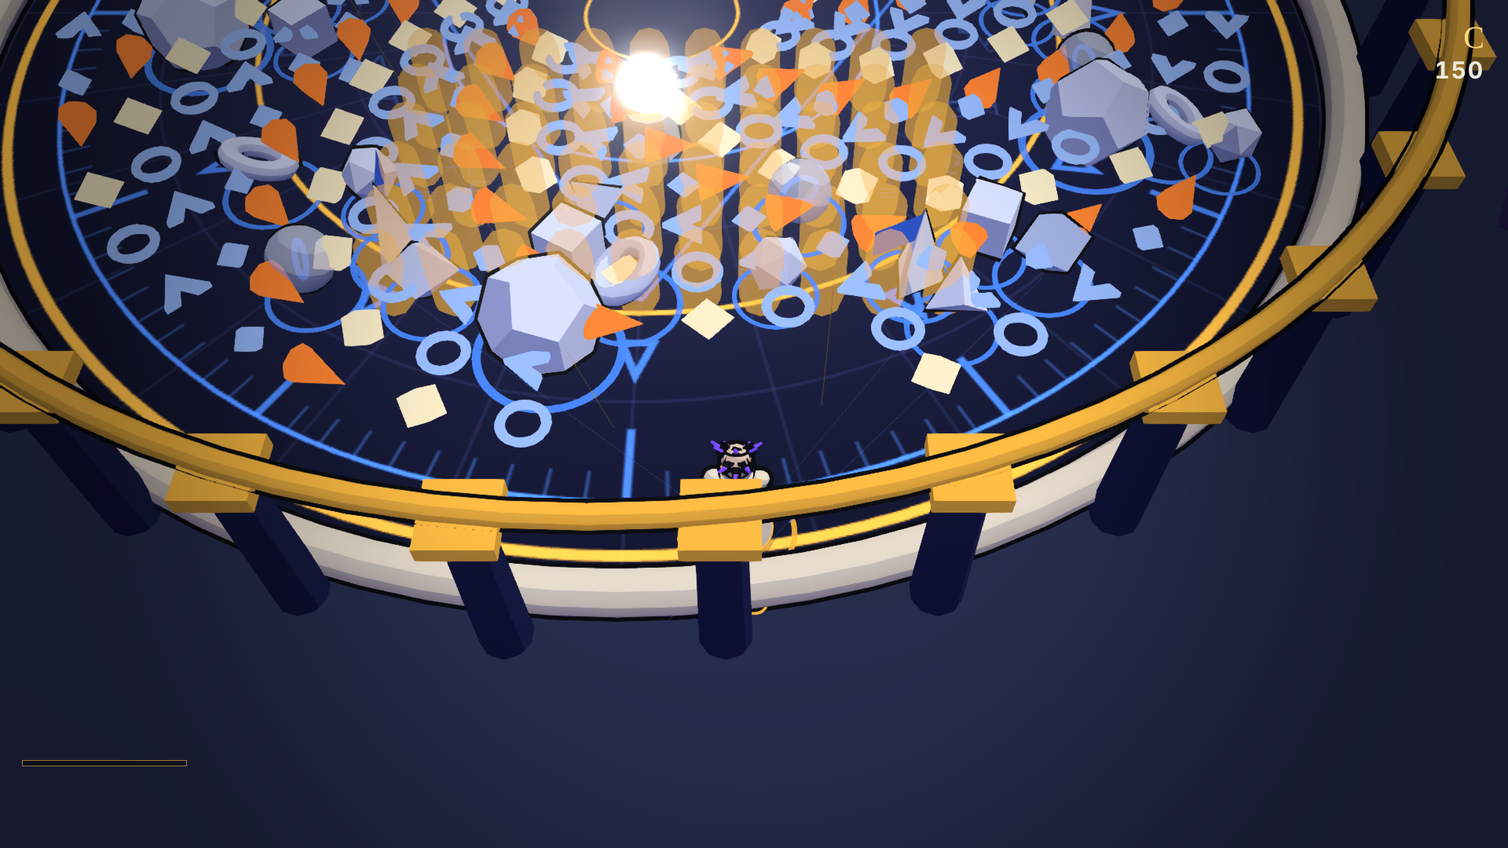
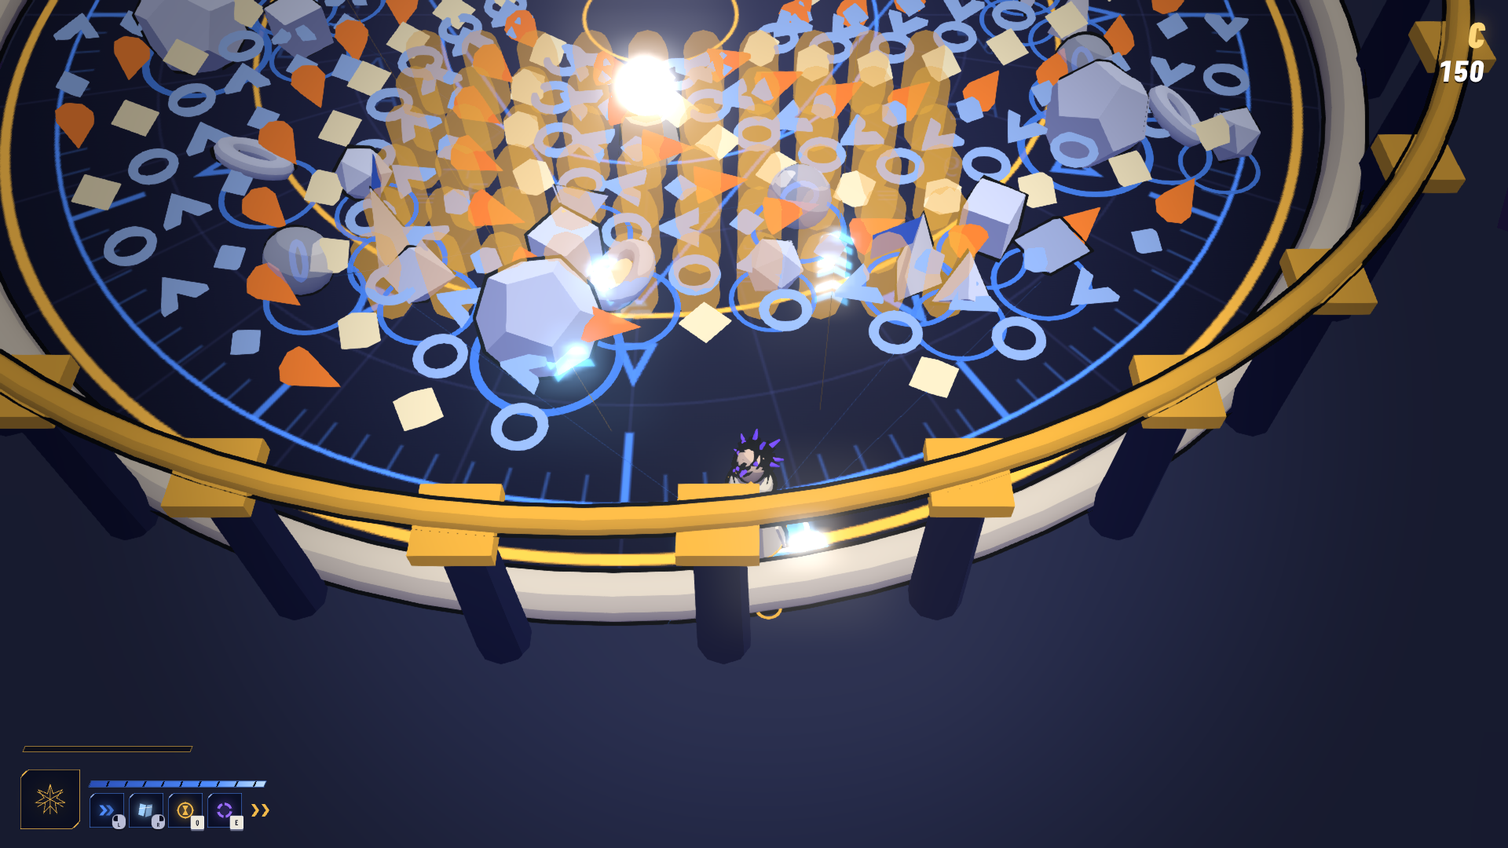
Op glyph VFX and live button prompts
World glyph decals per op, matching the HUD icons: Vector chevrons along the
redirect, Phase glass shards, Order clock/hand/hourglass (reversed hand for
rewind), Null broken violet ring collapsing. Pooled additive cards.

Button prompts from the live bindings for keyboard/mouse, Xbox, PlayStation
and Nintendo via the shell's input-family detector: binding badges on the op
slots and a Select/Back prompt bar on menus.

npm run check green; peak-density draw calls 149 (budget 250).

Claude-Session: https://claude.ai/code/session_01HCSJ6Hs4obmjjZFpmRq7rx

diff --git a/src/vfx/Vfx.ts b/src/vfx/Vfx.ts
@@ -5,6 +5,11 @@ import type { World } from "../sim/World";
 import { FEEL } from "../data/feel";
 import { PALETTE } from "../look/palette";
 import type { Afterimages } from "../look/LookKit";
+import { OpGlyphs } from "./OpGlyphs";
+
+/** Op accents from the reference sheet; each op also has its own glyph silhouette (OpGlyphs). */
+const OP_FX = { vector: 0x6ec8ff, phase: 0x9fd0ff, order: PALETTE.gold, null: PALETTE.purple } as const;
+const yawOf = (dx: number, dz: number) => Math.atan2(-dz, dx);
 
 /**
  * The 15 VFX families (GDD §11). Bursts, rings and convergences play through the shell Look Kit's pooled
@@ -31,7 +36,9 @@ export class Vfx {
   readonly counts: Record<string, number> = {};
   private readonly col = new THREE.Color();
 
-  constructor(scene: THREE.Scene, private readonly after: Afterimages, private readonly look: ShellLook) {
+  readonly glyphs: OpGlyphs;
+  constructor(scene: THREE.Scene, private readonly after: Afterimages, private readonly look: ShellLook, private readonly camera: THREE.Camera) {
+    this.glyphs = new OpGlyphs(scene);
     this.lineGeo.setAttribute("position", new THREE.BufferAttribute(this.linePos, 3));
     this.lineGeo.setAttribute("color", new THREE.BufferAttribute(this.lineCol, 3));
     this.lineMesh = new THREE.LineSegments(this.lineGeo, new THREE.LineBasicMaterial({ vertexColors: true, transparent: true, opacity: 0.95 }));
@@ -65,29 +72,59 @@ export class Vfx {
     for (let i = 0; i < seg; i++) { const a0 = (i / seg) * Math.PI * 2, a1 = ((i + 1) / seg) * Math.PI * 2; this.line(x + Math.sin(a0) * r, y, z + Math.cos(a0) * r, x + Math.sin(a1) * r, y, z + Math.cos(a1) * r, color, life); }
   }
 
+  /** A quick op sigil under Markov when an op fires (cast confirmation by silhouette). */
+  private castGlyph(op: keyof typeof OP_FX, x: number, z: number, dx: number, dz: number): void {
+    const color = OP_FX[op]; if (color === undefined) return;
+    const kind = op === "vector" ? "chevron" : op === "phase" ? "shard" : op === "order" ? "clock" : "nullring";
+    this.glyphs.spawn({ kind, x, z, y: 0.1, color, life: 16, size: 1.2, endSize: 2.2, yaw: op === "vector" ? yawOf(dx, dz) : 0, intensity: 1.2 });
+  }
+
   /** Map one sim event to its VFX family (data/feel.ts). */
   onEvent(e: SimEvent, w: World): void {
     const fam = FEEL[e.type]?.vfx as VfxFamily | undefined;
     const x = e.x ?? w.markov.pos.x, z = e.z ?? w.markov.pos.z;
     if (fam) this.counts[fam] = (this.counts[fam] ?? 0) + 1;
     switch (fam) {
-      case "glyph-spark": this.burst(x, 1.2, z, e.type === "StrikeHit" ? PALETTE.gold : PALETTE.goldHot, e.type === "CompoundCast" ? 0.8 : 0.3); if (e.type === "CompoundCast") this.ring(x, z, PALETTE.gold, 2.4); break;
+      case "glyph-spark":
+        if (e.type === "OpCast") this.castGlyph(e.op as keyof typeof OP_FX, x, z, e.dx ?? 0, e.dz ?? 1);
+        this.burst(x, 1.2, z, e.type === "StrikeHit" ? PALETTE.gold : PALETTE.goldHot, e.type === "CompoundCast" ? 0.8 : 0.3); if (e.type === "CompoundCast") this.ring(x, z, PALETTE.gold, 2.4); break;
       case "vector-line": {
         const dx = e.dx ?? 0, dz = e.dz ?? 1, l = Math.hypot(dx, dz) || 1;
         this.line(x, 0.9, z, x + (dx / l) * 14, 0.9, z + (dz / l) * 14, PALETTE.gold, 12);
+        if (e.type === "Redirect") { // three chevrons launched down the new heading
+          const ux = dx / l, uz = dz / l, yaw = yawOf(ux, uz);
+          for (let i = 0; i < 3; i++) this.glyphs.spawn({ kind: "chevron", x: x + ux * i * 0.9, z: z + uz * i * 0.9, y: 0.9, color: OP_FX.vector, life: 16 + i * 3, size: 1.1 - i * 0.15, endSize: 0.7, yaw, vx: ux * (0.32 - i * 0.05), vz: uz * (0.32 - i * 0.05), fadeIn: 1 + i * 2 });
+        }
         break;
       }
       case "orbit-ring": this.orbitT = 180; break;
-      case "phase-ripple": this.ring(x, z, e.value === 2 || e.value === 3 ? PALETTE.blue : 0xffffff, 2.2, 0.9); break;
-      case "clock-stamp": this.circle(x, z, 0.8, PALETTE.gold, 30, 1, 12); for (let i = 0; i < 12; i++) { const a = (i / 12) * Math.PI * 2; this.line(x + Math.sin(a) * 0.7, 1, z + Math.cos(a) * 0.7, x + Math.sin(a) * 0.95, 1, z + Math.cos(a) * 0.95, PALETTE.gold, 30); } break;
+      case "phase-ripple": {
+        this.ring(x, z, e.value === 2 || e.value === 3 ? PALETTE.blue : 0xffffff, 2.2, 0.9);
+        for (let i = 0; i < 7; i++) { // glass shards breaking outward
+          const a = (i / 7) * Math.PI * 2 + this.r(-0.3, 0.3), sp = this.r(0.12, 0.2);
+          this.glyphs.spawn({ kind: "shard", x, z, y: this.r(0.7, 1.8), color: OP_FX.phase, life: Math.round(this.r(18, 26)), size: this.r(0.5, 0.8), endSize: 0.3, flat: false, vx: Math.cos(a) * sp, vz: Math.sin(a) * sp, spin: this.r(-0.15, 0.15), intensity: 1.3 });
+        }
+        break;
+      }
+      case "clock-stamp":
+        this.glyphs.spawn({ kind: "clock", x, z, color: OP_FX.order, life: 60, size: 3.2, endSize: 2.2, fadeIn: 2 });
+        this.glyphs.spawn({ kind: "hand", x, z, y: 0.14, color: OP_FX.order, life: 60, size: 2.4, endSize: 1.7, spin: 0.03, fadeIn: 2 });
+        this.glyphs.spawn({ kind: "hourglass", x, z, y: 2.6, color: OP_FX.order, life: 60, size: 0.9, flat: false, intensity: 1.4 });
+        this.circle(x, z, 0.8, PALETTE.gold, 30, 1, 12); for (let i = 0; i < 12; i++) { const a = (i / 12) * Math.PI * 2; this.line(x + Math.sin(a) * 0.7, 1, z + Math.cos(a) * 0.7, x + Math.sin(a) * 0.95, 1, z + Math.cos(a) * 0.95, PALETTE.gold, 30); } break;
       case "rewind-trail": {
         const a = e.id ? w.actor(e.id) : undefined;
         const p = e.id ? w.projectile(e.id) : undefined;
         const h = a?.history ?? p?.history;
+        this.glyphs.spawn({ kind: "clock", x, z, color: OP_FX.order, life: 40, size: 2.4, endSize: 3, fadeIn: 2 });
+        this.glyphs.spawn({ kind: "hand", x, z, y: 0.14, color: OP_FX.order, life: 40, size: 1.9, endSize: 2.4, spin: -0.35, fadeIn: 2 });
         if (h) for (let i = 0; i + 6 < h.count; i += 6) { const p0 = h.get(i), p1 = h.get(i + 6); this.line(p0.x, 0.9, p0.z, p1.x, 0.9, p1.z, PALETTE.gold, 40); if (i % 18 === 0) this.after.spawn(new THREE.Vector3(p0.x, 0.9, p0.z), 0, PALETTE.gold, PALETTE.blue, 24, 0.7); }
         break;
       }
-      case "null-implode": this.converge(x, 0.9, z, PALETTE.gold, 0.4, 100); break;
+      case "null-implode": // broken violet ring collapsing onto the erased point
+        this.converge(x, 0.9, z, OP_FX.null, 0.4, 100);
+        this.glyphs.spawn({ kind: "nullring", x, z, y: 0.9, color: OP_FX.null, life: 22, size: 3.4, endSize: 0.2, spin: 0.18, flat: false, fadeIn: 1 });
+        this.glyphs.spawn({ kind: "nullring", x, z, color: OP_FX.null, life: 30, size: 0.6, endSize: 3.6, spin: -0.06, intensity: 1 });
+        break;
       case "property-peel": this.burst(x, 1.6, z, PALETTE.gold, 0.6); break;
       case "contradiction-fracture": {
         for (let i = 0; i < 10; i++) {
@@ -138,9 +175,10 @@ export class Vfx {
     (rays.material as THREE.MeshBasicMaterial).opacity = this.dawnLevel * 0.16;
     rays.visible = this.dawnLevel > 0.01;
     this.lineMesh.visible = li > 0;
+    this.glyphs.update(this.camera);
   }
 
-  clear(): void { this.lines.length = 0; this.dawnLevel = 0; this.orbitT = 0; }
+  clear(): void { this.glyphs.clear(); this.lines.length = 0; this.dawnLevel = 0; this.orbitT = 0; }
 }
 
 function mergeGeos(gs: THREE.BufferGeometry[]): THREE.BufferGeometry {

diff --git a/src/ui/glyphs.ts b/src/ui/glyphs.ts
@@ -1,0 +1,81 @@
+import type { InputDeviceFamily } from "@slu/web-shell";
+import type { Binding } from "../data/input";
+
+/**
+ * Button prompt glyphs (inline HTML/CSS, no image assets) for the active input family, resolved from the live bindings so
+ * remaps show correctly. Face buttons read by symbol/letter + shape, shoulders and triggers by shape, keys as keycaps.
+ * Standard Gamepad indices: 0 bottom, 1 right, 2 left, 3 top, 4 LB, 5 RB, 6 LT, 7 RT, 8 select, 9 start, 10 L3, 11 R3, 12-15 d-pad.
+ */
+export type PadFamily = Exclude<InputDeviceFamily, "keyboard-mouse" | "touch">;
+
+const FACE: Record<PadFamily, string[]> = {
+  xbox: ["A", "B", "X", "Y"],
+  "generic-gamepad": ["A", "B", "X", "Y"],
+  playstation: ["✕", "○", "□", "△"],
+  nintendo: ["B", "A", "Y", "X"],
+};
+const SHOULDER: Record<PadFamily, string[]> = {
+  xbox: ["LB", "RB", "LT", "RT"], "generic-gamepad": ["LB", "RB", "LT", "RT"], playstation: ["L1", "R1", "L2", "R2"], nintendo: ["L", "R", "ZL", "ZR"],
+};
+const META: Record<PadFamily, string[]> = {
+  xbox: ["⧉", "≡"], "generic-gamepad": ["◁", "▷"], playstation: ["◫", "≡"], nintendo: ["−", "+"],
+};
+const KEY_NAMES: Record<string, string> = { Space: "Space", ShiftLeft: "Shift", ShiftRight: "Shift", Escape: "Esc", Enter: "Enter", Tab: "Tab", Backspace: "⌫", ArrowUp: "↑", ArrowDown: "↓", ArrowLeft: "←", ArrowRight: "→" };
+const MOUSE = ["L", "M", "R"];
+
+export function isPad(f: InputDeviceFamily): f is PadFamily { return f !== "keyboard-mouse" && f !== "touch"; }
+
+export function padGlyph(index: number, f: PadFamily): string {
+  if (index <= 3) return `<b class="gl gl-face gl-${f === "playstation" ? "ps" : "abxy"}" data-face="${index}">${FACE[f][index]}</b>`;
+  if (index <= 7) return `<b class="gl ${index <= 5 ? "gl-bumper" : "gl-trigger"}">${SHOULDER[f][index - 4]}</b>`;
+  if (index <= 9) return `<b class="gl gl-face gl-meta">${META[f][index - 8]}</b>`;
+  if (index <= 11) return `<b class="gl gl-face gl-stick">${index === 10 ? "L" : "R"}<i>●</i></b>`;
+  return `<b class="gl gl-dpad" data-dir="${index - 12}"><i></i></b>`;
+}
+
+export function keyGlyph(code: string): string {
+  const name = KEY_NAMES[code] ?? code.replace(/^Key|^Digit/, "");
+  return `<b class="gl gl-key${name.length > 2 ? " wide" : ""}">${name}</b>`;
+}
+export function mouseGlyph(button: number): string { return `<b class="gl gl-mouse" data-b="${button}"><i></i>${MOUSE[button] ?? button}</b>`; }
+
+/** Glyph for a game action in the given family; null if that family has no binding for it. */
+export function actionGlyph(b: Binding | undefined, f: InputDeviceFamily): string | null {
+  if (!b) return null;
+  if (isPad(f)) { const p = b.gamepadButtons?.[0]; return p === undefined ? null : padGlyph(p, f); }
+  if (b.mouseButtons?.length) return mouseGlyph(b.mouseButtons[0]!);
+  if (b.keyboard.length) return keyGlyph(b.keyboard[0]!);
+  return null;
+}
+
+/** Fixed UI navigation prompts (not remappable). */
+export function uiGlyph(act: "accept" | "back", f: InputDeviceFamily): string {
+  if (isPad(f)) return padGlyph(act === "accept" ? 0 : 1, f);
+  return keyGlyph(act === "accept" ? "Enter" : "Escape");
+}
+
+export const GLYPH_CSS = `
+.gl{display:inline-flex;align-items:center;justify-content:center;flex:none;font-family:var(--display);font-style:normal;font-weight:800;line-height:1;color:#0a0d1f;background:#ece8dc;letter-spacing:0;font-size:13px;height:22px;min-width:22px;box-shadow:0 2px 0 rgba(0,0,0,.45)}
+.gl-face{border-radius:50%;width:22px}
+.gl-ps{font-size:15px;font-family:system-ui,sans-serif;font-weight:700}
+.gl-meta{font-size:14px;background:#b9bdd6}
+.gl-stick{font-size:11px;flex-direction:column;gap:0;background:#b9bdd6}.gl-stick i{font-size:6px;font-style:normal}
+.gl-bumper{border-radius:9px 9px 4px 4px;padding:0 6px;font-size:12px}
+.gl-trigger{border-radius:11px 11px 3px 3px;padding:0 6px;height:24px;font-size:12px;background:linear-gradient(#fff,#cfcabd)}
+.gl-key{border-radius:3px;padding:0 6px;font-size:12px;border:1px solid #fff;box-shadow:0 3px 0 #6b6f8a}
+.gl-key.wide{padding:0 8px;letter-spacing:.04em}
+.gl-mouse{width:18px;height:24px;border-radius:9px;font-size:9px;position:relative;align-items:flex-end;padding-bottom:3px;background:#b9bdd6}
+.gl-mouse i{position:absolute;top:2px;width:7px;height:9px;background:#0a0d1f;border-radius:3px}
+.gl-mouse[data-b="0"] i{left:2px;border-radius:7px 1px 1px 3px}.gl-mouse[data-b="2"] i{right:2px;border-radius:1px 7px 3px 1px}.gl-mouse[data-b="1"] i{left:5.5px;width:6px;border-radius:3px}
+.gl-dpad{width:22px;height:22px;background:none;box-shadow:none;position:relative}
+.gl-dpad:before,.gl-dpad:after{content:"";position:absolute;background:#6b6f8a;border-radius:2px}
+.gl-dpad:before{left:7px;top:0;width:8px;height:22px}.gl-dpad:after{top:7px;left:0;width:22px;height:8px}
+.gl-dpad i{position:absolute;z-index:1;width:8px;height:8px;background:#ece8dc;border-radius:1px}
+.gl-dpad[data-dir="0"] i{left:7px;top:0}.gl-dpad[data-dir="1"] i{left:7px;bottom:0}.gl-dpad[data-dir="2"] i{left:0;top:7px}.gl-dpad[data-dir="3"] i{right:0;top:7px}
+/* prompt bar (bottom-right, navigation only) */
+.prompts{position:absolute;right:0;bottom:22px;display:flex;gap:22px;align-items:center;padding:8px 34px 8px 40px;background:linear-gradient(90deg,transparent,rgba(5,6,16,.85) 22%);clip-path:polygon(18px 0,100% 0,100% 100%,0 100%);font-family:var(--display);font-style:italic;font-weight:700;letter-spacing:.12em;text-transform:uppercase;font-size:calc(16px*var(--ts));color:#dfe3f5;pointer-events:none}
+.prompts span{display:inline-flex;align-items:center;gap:9px}
+/* op slot binding badge */
+.op{position:relative}
+.op .gl{position:absolute;right:-12px;bottom:-12px;transform:scale(.78);transform-origin:100% 100%}
+`;

diff --git a/src/vfx/OpGlyphs.ts b/src/vfx/OpGlyphs.ts
@@ -1,0 +1,83 @@
+import * as THREE from "three";
+
+/**
+ * Operation glyph decals (presentation only): flat additive cards drawn from the same silhouettes as the HUD op icons,
+ * so every op reads by shape in the world as well as in the HUD — Vector chevrons, Phase glass shards, Order clock,
+ * Null broken ring. Pooled meshes; only live glyphs draw.
+ */
+export type GlyphKind = "chevron" | "shard" | "clock" | "hand" | "nullring" | "hourglass";
+
+const TEX = new Map<GlyphKind, THREE.CanvasTexture>();
+function texture(kind: GlyphKind): THREE.CanvasTexture {
+  let t = TEX.get(kind);
+  if (t) return t;
+  const S = 256, c = document.createElement("canvas"); c.width = c.height = S;
+  const g = c.getContext("2d")!; g.translate(S / 2, S / 2);
+  g.fillStyle = "#fff"; g.strokeStyle = "#fff"; g.lineJoin = "miter";
+  const glow = (b: number) => { g.shadowColor = "#fff"; g.shadowBlur = b; };
+  switch (kind) {
+    case "chevron": glow(18); for (const off of [-46, 34]) { g.beginPath(); g.moveTo(off - 40, -90); g.lineTo(off + 6, -90); g.lineTo(off + 56, 0); g.lineTo(off + 6, 90); g.lineTo(off - 40, 90); g.lineTo(off + 10, 0); g.closePath(); g.globalAlpha = off < 0 ? 0.55 : 1; g.fill(); } break;
+    case "shard": glow(14); g.globalAlpha = 0.5; g.beginPath(); g.moveTo(-40, -110); g.lineTo(60, -70); g.lineTo(30, 110); g.lineTo(-60, 70); g.closePath(); g.fill(); g.globalAlpha = 1; g.lineWidth = 7; g.stroke(); g.beginPath(); g.moveTo(-30, -60); g.lineTo(40, -40); g.lineWidth = 5; g.stroke(); break;
+    case "clock": glow(16); g.lineWidth = 9; g.beginPath(); g.arc(0, 0, 104, 0, Math.PI * 2); g.stroke(); g.lineWidth = 3; g.beginPath(); g.arc(0, 0, 86, 0, Math.PI * 2); g.stroke();
+      for (let i = 0; i < 12; i++) { const a = (i / 12) * Math.PI * 2; const long = i % 3 === 0; g.lineWidth = long ? 8 : 4; g.beginPath(); g.moveTo(Math.sin(a) * (long ? 62 : 72), -Math.cos(a) * (long ? 62 : 72)); g.lineTo(Math.sin(a) * 84, -Math.cos(a) * 84); g.stroke(); } break;
+    case "hand": glow(12); g.beginPath(); g.moveTo(-7, 10); g.lineTo(0, -82); g.lineTo(7, 10); g.closePath(); g.fill(); g.beginPath(); g.arc(0, 0, 12, 0, Math.PI * 2); g.fill(); break;
+    case "hourglass": glow(14); g.lineWidth = 8; g.beginPath(); g.moveTo(-56, -90); g.lineTo(56, -90); g.lineTo(8, 0); g.lineTo(56, 90); g.lineTo(-56, 90); g.lineTo(-8, 0); g.closePath(); g.stroke(); g.beginPath(); g.moveTo(-30, 62); g.lineTo(30, 62); g.lineTo(0, 30); g.closePath(); g.fill(); break;
+    case "nullring": glow(20); g.lineWidth = 22; for (let i = 0; i < 4; i++) { const a = (i / 4) * Math.PI * 2 + 0.2; g.beginPath(); g.arc(0, 0, 92, a, a + 1.15); g.stroke(); } g.lineWidth = 4; g.beginPath(); g.arc(0, 0, 60, 0, Math.PI * 2); g.globalAlpha = 0.5; g.stroke(); break;
+  }
+  t = new THREE.CanvasTexture(c); t.colorSpace = THREE.SRGBColorSpace; TEX.set(kind, t);
+  return t;
+}
+
+interface Glyph {
+  mesh: THREE.Mesh; mat: THREE.MeshBasicMaterial; life: number; t: number;
+  x: number; y: number; z: number; vx: number; vz: number; s0: number; s1: number; rot: number; spin: number; flat: boolean; yaw: number; fadeIn: number;
+}
+export interface GlyphSpec {
+  kind: GlyphKind; x: number; z: number; y?: number; color: number; life: number;
+  size?: number; endSize?: number; yaw?: number; spin?: number; vx?: number; vz?: number; flat?: boolean; intensity?: number; fadeIn?: number;
+}
+
+const POOL = 64;
+export class OpGlyphs {
+  private readonly pool: Glyph[] = [];
+  private readonly live: Glyph[] = [];
+  private readonly geo = new THREE.PlaneGeometry(1, 1);
+  readonly group = new THREE.Group();
+  constructor(scene: THREE.Scene) {
+    this.group.name = "op-glyphs";
+    scene.add(this.group);
+  }
+  spawn(s: GlyphSpec): void {
+    let g = this.pool.pop();
+    if (!g) {
+      if (this.live.length >= POOL) { g = this.live.shift()!; }
+      else {
+        const mat = new THREE.MeshBasicMaterial({ transparent: true, depthWrite: false, blending: THREE.AdditiveBlending, toneMapped: false, side: THREE.DoubleSide });
+        const mesh = new THREE.Mesh(this.geo, mat); mesh.frustumCulled = false; mesh.renderOrder = 5; this.group.add(mesh);
+        g = { mesh, mat, life: 0, t: 0, x: 0, y: 0, z: 0, vx: 0, vz: 0, s0: 1, s1: 1, rot: 0, spin: 0, flat: true, yaw: 0, fadeIn: 0 };
+      }
+    }
+    g.mat.map = texture(s.kind); g.mat.needsUpdate = true;
+    g.mat.color.setHex(s.color).multiplyScalar(s.intensity ?? 1.6);
+    Object.assign(g, { life: s.life, t: 0, x: s.x, y: s.y ?? 0.12, z: s.z, vx: s.vx ?? 0, vz: s.vz ?? 0, s0: s.size ?? 1.5, s1: s.endSize ?? s.size ?? 1.5, rot: 0, spin: s.spin ?? 0, flat: s.flat ?? true, yaw: s.yaw ?? 0, fadeIn: s.fadeIn ?? 3 });
+    g.mesh.visible = true;
+    this.live.push(g);
+  }
+  /** One presentation tick (called once per rendered sim frame, like the line VFX). */
+  update(camera: THREE.Camera): void {
+    for (let i = this.live.length - 1; i >= 0; i--) {
+      const g = this.live[i]!;
+      g.t++;
+      if (g.t > g.life) { g.mesh.visible = false; this.live.splice(i, 1); this.pool.push(g); continue; }
+      const k = g.t / g.life, ease = 1 - (1 - k) * (1 - k);
+      g.x += g.vx; g.z += g.vz; g.vx *= 0.9; g.vz *= 0.9; g.rot += g.spin;
+      g.mesh.position.set(g.x, g.y, g.z);
+      g.mesh.scale.setScalar(g.s0 + (g.s1 - g.s0) * ease);
+      if (g.flat) g.mesh.rotation.set(-Math.PI / 2, 0, g.yaw + g.rot);
+      else { g.mesh.quaternion.copy(camera.quaternion); g.mesh.rotateZ(g.rot); }
+      g.mat.opacity = Math.min(1, g.t / Math.max(1, g.fadeIn)) * (k < 0.6 ? 1 : 1 - (k - 0.6) / 0.4);
+    }
+  }
+  clear(): void { for (const g of this.live) { g.mesh.visible = false; this.pool.push(g); } this.live.length = 0; }
+  get count(): number { return this.live.length; }
+}

diff --git a/src/ui/Ui.ts b/src/ui/Ui.ts
@@ -7,6 +7,9 @@ import type { Bark } from "../data/barks";
 import type { LawId } from "../sim/types";
 import { lawArt } from "./cardArt";
 import { opIcon, type OpIcon } from "./icons";
+import { GLYPH_CSS, actionGlyph, uiGlyph } from "./glyphs";
+import type { InputDeviceFamily } from "@slu/web-shell";
+import type { Binding } from "../data/input";
 import { FOCUS } from "../data/resources";
 import { STEP } from "../data/movement";
 
@@ -21,7 +24,7 @@ export class Menu {
   index = 0;
   readonly root = el("div", "menu");
   private rows: HTMLDivElement[] = [];
-  constructor(private items: MenuItem[], private readonly sfx: (k: string) => void, private readonly onBack?: () => void) {
+  constructor(private items: MenuItem[], private readonly sfx: (k: string) => void, readonly onBack?: () => void) {
     this.render();
     this.index = Math.max(0, items.findIndex((i) => !i.disabled));
     this.paint();
@@ -77,9 +80,13 @@ export class Ui {
   private hudEls: Record<string, HTMLElement> = {};
   private subTimer = 0;
 
+  /** Active input family (from the shell's BrowserInputFamilyDetector) and live bindings, for button prompts. */
+  family: InputDeviceFamily = "keyboard-mouse";
+  bindings: () => Binding[] = () => [];
+
   constructor(root: HTMLElement, readonly sfx: (k: string) => void) {
     this.root = root;
-    const style = document.createElement("style"); style.textContent = CSS; document.head.appendChild(style);
+    const style = document.createElement("style"); style.textContent = CSS + GLYPH_CSS; document.head.appendChild(style);
     root.append(this.hudLayer, this.screen, this.overlay, this.subs, this.flash);
   }
 
@@ -90,8 +97,25 @@ export class Ui {
     this.screen.innerHTML = "";
     const s = el("div", "screen" + (clear ? " clear" : ""));
     s.appendChild(content);
+    if (menu && menu.root.style.display !== "none") s.appendChild(el("div", "prompts"));
     this.screen.appendChild(s);
     this.menu = menu;
+    this.refreshGlyphs();
+  }
+
+  setFamily(f: InputDeviceFamily): void { if (f !== this.family) { this.family = f; this.refreshGlyphs(); } }
+
+  /** Re-render every button prompt for the current family + bindings (menu prompt bar and HUD op badges). */
+  refreshGlyphs(): void {
+    const f = this.family;
+    const bar = this.screen.querySelector(".prompts");
+    if (bar) bar.innerHTML = `<span>${uiGlyph("accept", f)}Select</span>${this.menu?.onBack ? `<span>${uiGlyph("back", f)}Back</span>` : ""}`;
+    const binds = this.bindings();
+    for (const o of this.hudLayer.querySelectorAll<HTMLElement>(".op")) {
+      o.querySelector(".gl")?.remove();
+      const g = actionGlyph(binds.find((b) => b.action === o.dataset.op), f);
+      if (g) o.insertAdjacentHTML("beforeend", g);
+    }
   }
   hideScreen(): void { this.screen.innerHTML = ""; this.menu = null; }
   get screenOpen(): boolean { return this.screen.childElementCount > 0; }
@@ -118,6 +142,7 @@ export class Ui {
     this.hudLayer.appendChild(h);
     for (const k of ["hubris", "sealrow", "score", "rank", "lawmini", "bossbar", "meter", "dock", "focusbar", "ops", "steps"]) this.hudEls[k] = h.querySelector(`.${k}`) as HTMLElement;
     this.hudEls.scoreNum = h.querySelector(".score b") as HTMLElement;
+    this.refreshGlyphs();
     h.querySelectorAll("svg.sigil path").forEach((p) => ((p as SVGPathElement).style.animation = "none", (p as SVGPathElement).style.strokeDashoffset = "0"));
   }
   hideHud(): void { this.hudLayer.innerHTML = ""; this.hudEls = {}; }

diff --git a/src/app/App.ts b/src/app/App.ts
@@ -114,7 +114,7 @@ export class App {
     this.input.setBindings(this.settings.get("bindings"));
     this.ui = new Ui(uiRoot, (k) => this.audio.sfx(k));
     this.view = new WorldView(this.rig.scene);
-    this.vfx = new Vfx(this.rig.scene, this.view.afterimages, this.rig.look);
+    this.vfx = new Vfx(this.rig.scene, this.view.afterimages, this.rig.look, this.rig.camera);
     const look = this.rig.look;
     this.feel = new FeelKit({
       vfx: (id, position, scale, tint) => { look.play(id, { ...(position ? { position } : {}), scale, ...(tint ? { tint } : {}) }); },
@@ -135,7 +135,8 @@ export class App {
     this.recovery.hide();
     window.addEventListener("error", (e) => this.fail(e.error ?? e.message));
     window.addEventListener("unhandledrejection", (e) => this.fail(e.reason));
-    new BrowserInputFamilyDetector({ onChange: (f) => { this.shell.production.glyphs.setFamily(f); } }).attach();
+    new BrowserInputFamilyDetector({ onChange: (f) => { this.shell.production.glyphs.setFamily(f); this.ui.setFamily(f); } }).attach();
+    this.ui.bindings = () => this.input.bindings;
     const pwa = new PWAController(); pwa.attach();
     if (import.meta.env.PROD) void pwa.register("./sw.js").catch(() => undefined);
     this.toTitle();

diff --git a/DECISIONS.md b/DECISIONS.md
@@ -68,3 +68,6 @@ Append-only. Format: `YYYY-MM-DD — Decision — Why — Status (LOCKED / provi
 - 2026-11-09 — The Giant's shadow gets a pale violet rim so it reads by edge on the dark floor (shape before value) — LOCKED (accessibility)
 - 2026-11-09 — UI pass to the reference: chamfered navy/gold frames (9-slice SVG border-image, no image assets), bold italic condensed caps (self-hosted Barlow Condensed / Semi Condensed via @fontsource, bundled for offline PWA), gold slash section mark, skewed energy bars. Fonts earn their cost: system fonts were the largest single "generic" signal in the UI — provisional
 - 2026-11-09 — HUD now shows Focus (it gated every op but was invisible) and an op strip (Vector/Phase/Order/Null by silhouette + colour; dim when Focus < cost, near-invisible when the regalia is not held, so the Descent's losses are visible) plus Step charges. No text labels — provisional
+- 2026-11-10 — Op VFX get world glyphs matching the HUD icons (Vector chevrons along the redirect, Phase glass shards, Order clock + hand + hourglass, reversed hand for rewind, Null broken violet ring collapsing). Redirected shots stay gold (ownership signal); op accents follow the reference sheet and every glyph is distinct by silhouette from blue threat telegraphs — provisional
+- 2026-11-10 — Button prompts: live-binding glyphs for keyboard/mouse, Xbox, PlayStation and Nintendo (family from the shell BrowserInputFamilyDetector). Op slots carry their binding; menus get a bottom-right Select/Back prompt bar. Nintendo shows position-true labels (bottom face = B) — provisional
+- 2026-11-10 — UI reference noted: Michael rates BlazBlue Entropy Effect X's UI as the premium bar (gameuidatabase.com id 2350; host not reachable from the build container) — reference
